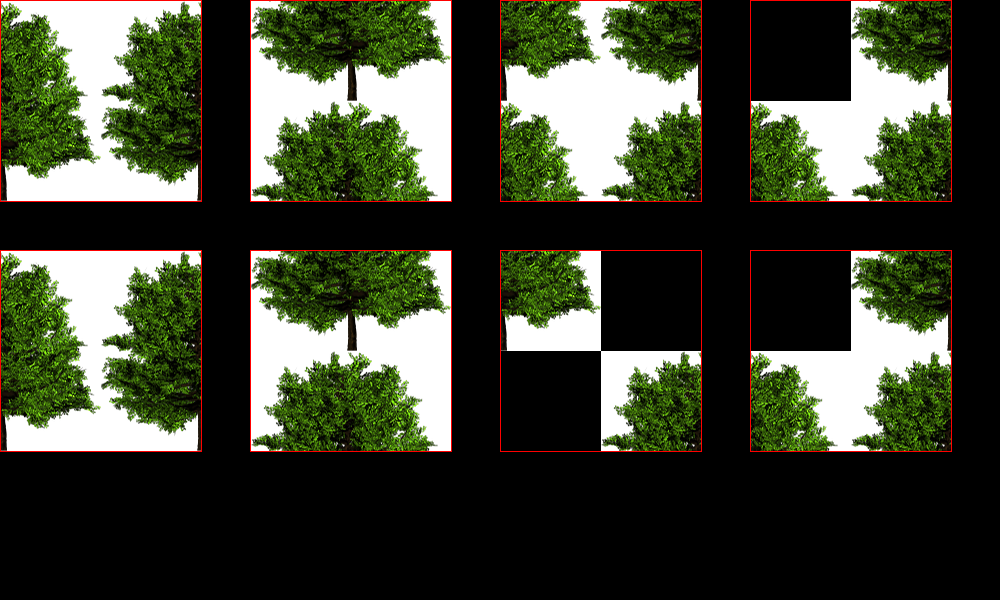
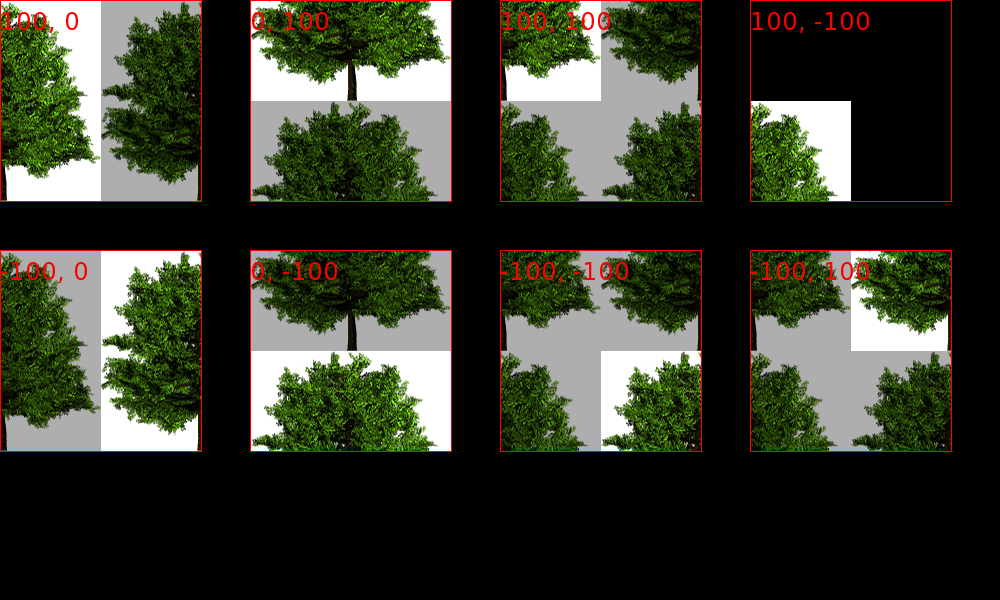
Working on texture offset in Gfx::Brush

diff --git a/src/Pt-Gfx/Brush.cpp b/src/Pt-Gfx/Brush.cpp
@@ -348,41 +348,71 @@ void BrushData::setTexture(const Image& texture, Pt::int32_t offsetX, Pt::int32_
             sy = 0;
             dy = (-offsetY) % texture.height();
         }
-        // Draw on the right hole
-        if(!dx       ) ip.drawImage(
-                           PointF(texture.width() - sx, dy), texture,
-                           RectF(PointF(0, sy), SizeF(texture.width() - sx, texture.height() - sy))
-                       );
-        // Draw on the bottom hole
-        if(       !dy) ip.drawImage(
-                           PointF(dx, texture.height() - sy), texture,
-                           RectF(PointF(sx, 0), SizeF(texture.width() - sx, texture.height() - sy))
-                       );
-        // Draw on the right-bottom hole
-        if(!dx && !dy) ip.drawImage(
-                           PointF(texture.width() - sx, texture.height() - sy), texture,
-                           RectF(PointF(0, 0), SizeF(texture.width() - sx, texture.height() - sy))
-                       );
-        // Draw on the middle area
+        // Draw on the main area
         ip.drawImage(
             PointF(dx, dy), texture,
             RectF(PointF(sx, sy), SizeF(texture.width() - sx, texture.height() - sy))
         );
-        // Draw on the left hole
-        if(!sx       ) ip.drawImage(
-                           PointF(0, sy), texture,
-                           RectF(PointF(texture.width() - dx, 0), SizeF(dx, texture.height() - dy))
-                       );
-        // Draw on the top hole
-        if(       !sy) ip.drawImage(
-                           PointF(sx, 0), texture,
-                           RectF(PointF(0, texture.height() - dy), SizeF(texture.width() - dx, dy))
-                       );
-        // Draw on the left-top hole
-        if(!sx && !sy) ip.drawImage(
-                           PointF(0, 0), texture,
-                           RectF(PointF(texture.width() - dx, texture.height() - dy), SizeF(dx, dy))
-                       );
+
+        ip.setCompositionMode(CompositionMode::SourceOver);
+
+        // Positive offsets
+        if(!dx && !dy) {
+            // Draw on the right/top-right hole
+            ip.drawImage(
+                PointF(texture.width() - sx, dy), texture,
+                RectF(PointF(0, sy), SizeF(texture.width() - sx, texture.height() - sy))
+            );
+            // Draw on the bottom/bottom-left hole
+            ip.drawImage(
+                 PointF(dx, texture.height() - sy), texture,
+                 RectF(PointF(sx, 0), SizeF(texture.width() - sx, texture.height() - sy))
+            );
+            // Draw on the bottom-right hole
+            ip.drawImage(
+                PointF(texture.width() - sx, texture.height() - sy), texture,
+                RectF(PointF(0, 0), SizeF(texture.width() - sx, texture.height() - sy))
+            );
+        }
+        // Negative offsets
+        else if(!sx && !sy) {
+            // Draw on the left/bottom-left hole
+            ip.drawImage(
+                PointF(0, dy), texture,
+                RectF(PointF(texture.width() - dx, 0), SizeF(dx, texture.height() - dy))
+            );
+            // Draw on the top/top-right hole
+            ip.drawImage(
+                PointF(dx, 0), texture,
+                RectF(PointF(0, texture.height() - dy), SizeF(texture.width() - dx, dy))
+            );
+            // Draw on the left-top hole
+            ip.drawImage(
+                PointF(0, 0), texture,
+                RectF(PointF(texture.width() - dx, texture.height() - dy), SizeF(dx, dy))
+            );
+        }
+        // Mixed offsets
+        else if(!dx && !sy) {
+        }
+        // Mixed offsets
+        else if(!sx && !dy) {
+            // Draw on the top-left hole
+            ip.drawImage(
+                PointF(0, 0), texture,
+                RectF(PointF(texture.width() - dx, sy), SizeF(dx, texture.height() - sy))
+            );
+            // Draw on the bottom-left hole
+            ip.drawImage(
+                PointF(0, sy), texture,
+                RectF(PointF(texture.width() - dx, 0), SizeF(dx, sy))
+            );
+            // Draw on the bottom-right hole
+            ip.drawImage(
+                PointF(dx, sy), texture,
+                RectF(PointF(0, 0), SizeF(dx, sy))
+            );
+        }
     }
     else {
         _texture = texture;

diff --git a/src/Pt-Gfx/tests/ImagePainterTest2_Draw_Outline.cpp b/src/Pt-Gfx/tests/ImagePainterTest2_Draw_Outline.cpp
@@ -207,7 +207,9 @@ static void testDrawRect(const char* title, Image& image, Painter& painter)
 
     ImagePainter2* ip2 = dynamic_cast<ImagePainter2*>(dynamic_cast<Painter*>(&painter));
     if(ip2) ip2->setAntiAliasingMode(AntiAliasingMode::Standard);
-/*
+
+#if 0
+
     // Solid
     painter.setPen  ( Color::fromRgb8(255, 255,   0, 175) );
     painter.setBrush( Color::fromRgb8(255,   0, 255, 175) );
@@ -255,43 +257,53 @@ static void testDrawRect(const char* title, Image& image, Painter& painter)
     painter.drawRect( RectF(PointF(750, 100), SizeF(200, 100)) );
     painter.drawRect( RectF(PointF(750, 270), SizeF(200, 100)) );
     painter.drawRect( RectF(PointF(750, 440), SizeF(200, 100)) );
-**/
 
+#else
 
     painter.setPen( Color::fromRgb8(255, 0, 0) );
+    painter.setFont( Pt::Gfx::Font(FONT_SPEC_N) );
 
     painter.setBrush( Brush(textureWithWhiteBackground, 100, 0) );
     painter.fillRect( RectF(PointF(0+1, 0+1), SizeF(200, 200)) );
     painter.drawRect( RectF(PointF(0+0, 0+0), SizeF(200+2, 200+2)) );
+    painter.drawText( PointF(0, 0+30), "100, 0" );
 
     painter.setBrush( Brush(textureWithWhiteBackground, 0, 100) );
     painter.fillRect( RectF(PointF(250+1, 0+1), SizeF(200, 200)) );
     painter.drawRect( RectF(PointF(250+0, 0+0), SizeF(200+2, 200+2)) );
+    painter.drawText( PointF(250, 0+30), "0, 100" );
 
     painter.setBrush( Brush(textureWithWhiteBackground, 100, 100) );
     painter.fillRect( RectF(PointF(500+1, 0+1), SizeF(200, 200)) );
     painter.drawRect( RectF(PointF(500+0, 0+0), SizeF(200+2, 200+2)) );
+    painter.drawText( PointF(500, 0+30), "100, 100" );
 
     painter.setBrush( Brush(textureWithWhiteBackground, -100, 0) );
     painter.fillRect( RectF(PointF(0+1, 250+1), SizeF(200, 200)) );
     painter.drawRect( RectF(PointF(0+0, 250+0), SizeF(200+2, 200+2)) );
+    painter.drawText( PointF(0, 250+30), "-100, 0" );
 
     painter.setBrush( Brush(textureWithWhiteBackground, 0, -100) );
     painter.fillRect( RectF(PointF(250+1, 250+1), SizeF(200, 200)) );
     painter.drawRect( RectF(PointF(250+0, 250+0), SizeF(200+2, 200+2)) );
+    painter.drawText( PointF(250, 250+30), "0, -100" );
 
     painter.setBrush( Brush(textureWithWhiteBackground, -100, -100) );
     painter.fillRect( RectF(PointF(500+1, 250+1), SizeF(200, 200)) );
     painter.drawRect( RectF(PointF(500+0, 250+0), SizeF(200+2, 200+2)) );
-
+    painter.drawText( PointF(500, 250+30), "-100, -100" );
 
     painter.setBrush( Brush(textureWithWhiteBackground, 100, -100) );
     painter.fillRect( RectF(PointF(750+1, 0+1), SizeF(200, 200)) );
     painter.drawRect( RectF(PointF(750+0, 0+0), SizeF(200+2, 200+2)) );
+    painter.drawText( PointF(750, 30), "100, -100" );
 
     painter.setBrush( Brush(textureWithWhiteBackground, -100, 100) );
     painter.fillRect( RectF(PointF(750+1, 250+1), SizeF(200, 200)) );
     painter.drawRect( RectF(PointF(750+0, 250+0), SizeF(200+2, 200+2)) );
+    painter.drawText( PointF(750, 250+30), "-100, 100" );
+
+#endif
 
     sdlPreviewRGB888Buffer(title, image.data(), image.width(), image.height(), !!dynamic_cast<ImagePainter2*>(&painter));
 }
